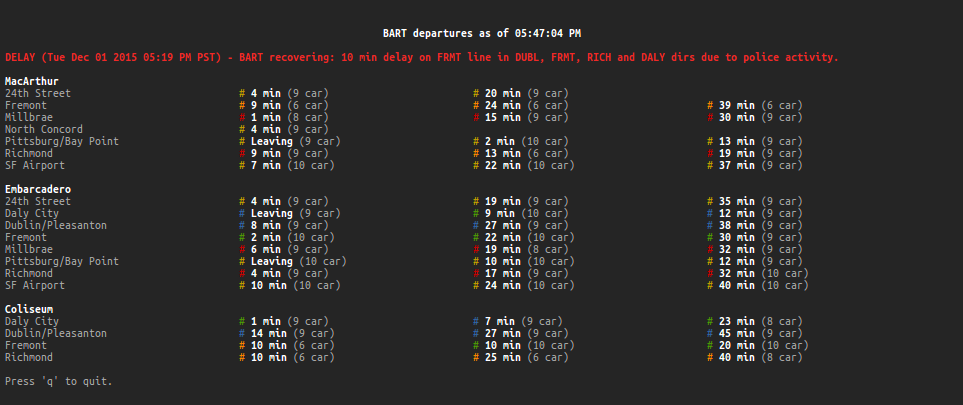
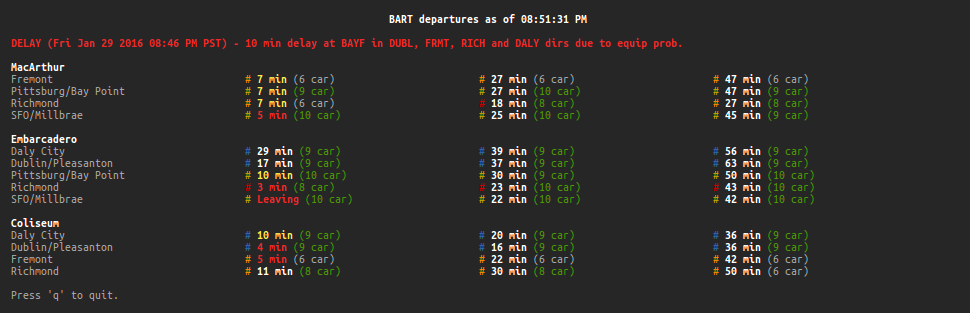
Add colors to times and train lengths, update screenshot

diff --git a/pybart/main.py b/pybart/main.py
@@ -56,6 +56,25 @@ window = Window(settings.REFRESH_INTERVAL, settings.TOTAL_COLUMNS)
 
 def draw():
     """Draw the information on the terminal."""
+    def get_minutes_color(minutes):
+        """Get the color to use for the minutes estimate."""
+        try:
+            minutes = int(minutes.split()[0])
+            if minutes <= 5:
+                return 'RED'
+            elif minutes <= 10:
+                return 'YELLOW'
+        except ValueError:
+            return 'RED'
+
+    def get_length_color(length):
+        """Get the color to use for the train length."""
+        length = int(length)
+        if length < 6:
+            return 'YELLOW'
+        elif length >= 8:
+            return 'GREEN'
+
     y = 0
 
     # Display the current time
@@ -93,11 +112,13 @@ def draw():
                 x += 2
 
                 minutes = estimate.minutes + ' '
-                window.addstr(y, x, minutes, bold=True)
+                color = get_minutes_color(estimate.minutes)
+                window.addstr(y, x, minutes, color_name=color, bold=True)
                 x += len(minutes)
 
                 length = '({length} car)'.format(length=estimate.length)
-                window.addstr(y, x, length)
+                color = get_length_color(estimate.length)
+                window.addstr(y, x, length, color_name=color)
                 x += len(length)
 
                 # Clear the space between estimates

diff --git a/README.md b/README.md
@@ -14,7 +14,9 @@ in your terminal!
 - [Curses-based](https://en.wikipedia.org/wiki/Curses_(programming_library))
   TUI with auto-refreshing and resizing
 - View multiple stations at the same time
+- Colors indicating transit lines, estimate times, and train lengths
 - Ability to configure a default set of stations
+- No dependencies; built with only standard libraries
 
 ## Requirements
 - Python 2.6+ or Python 3.0+ with the `curses` module installed (i.e. not
